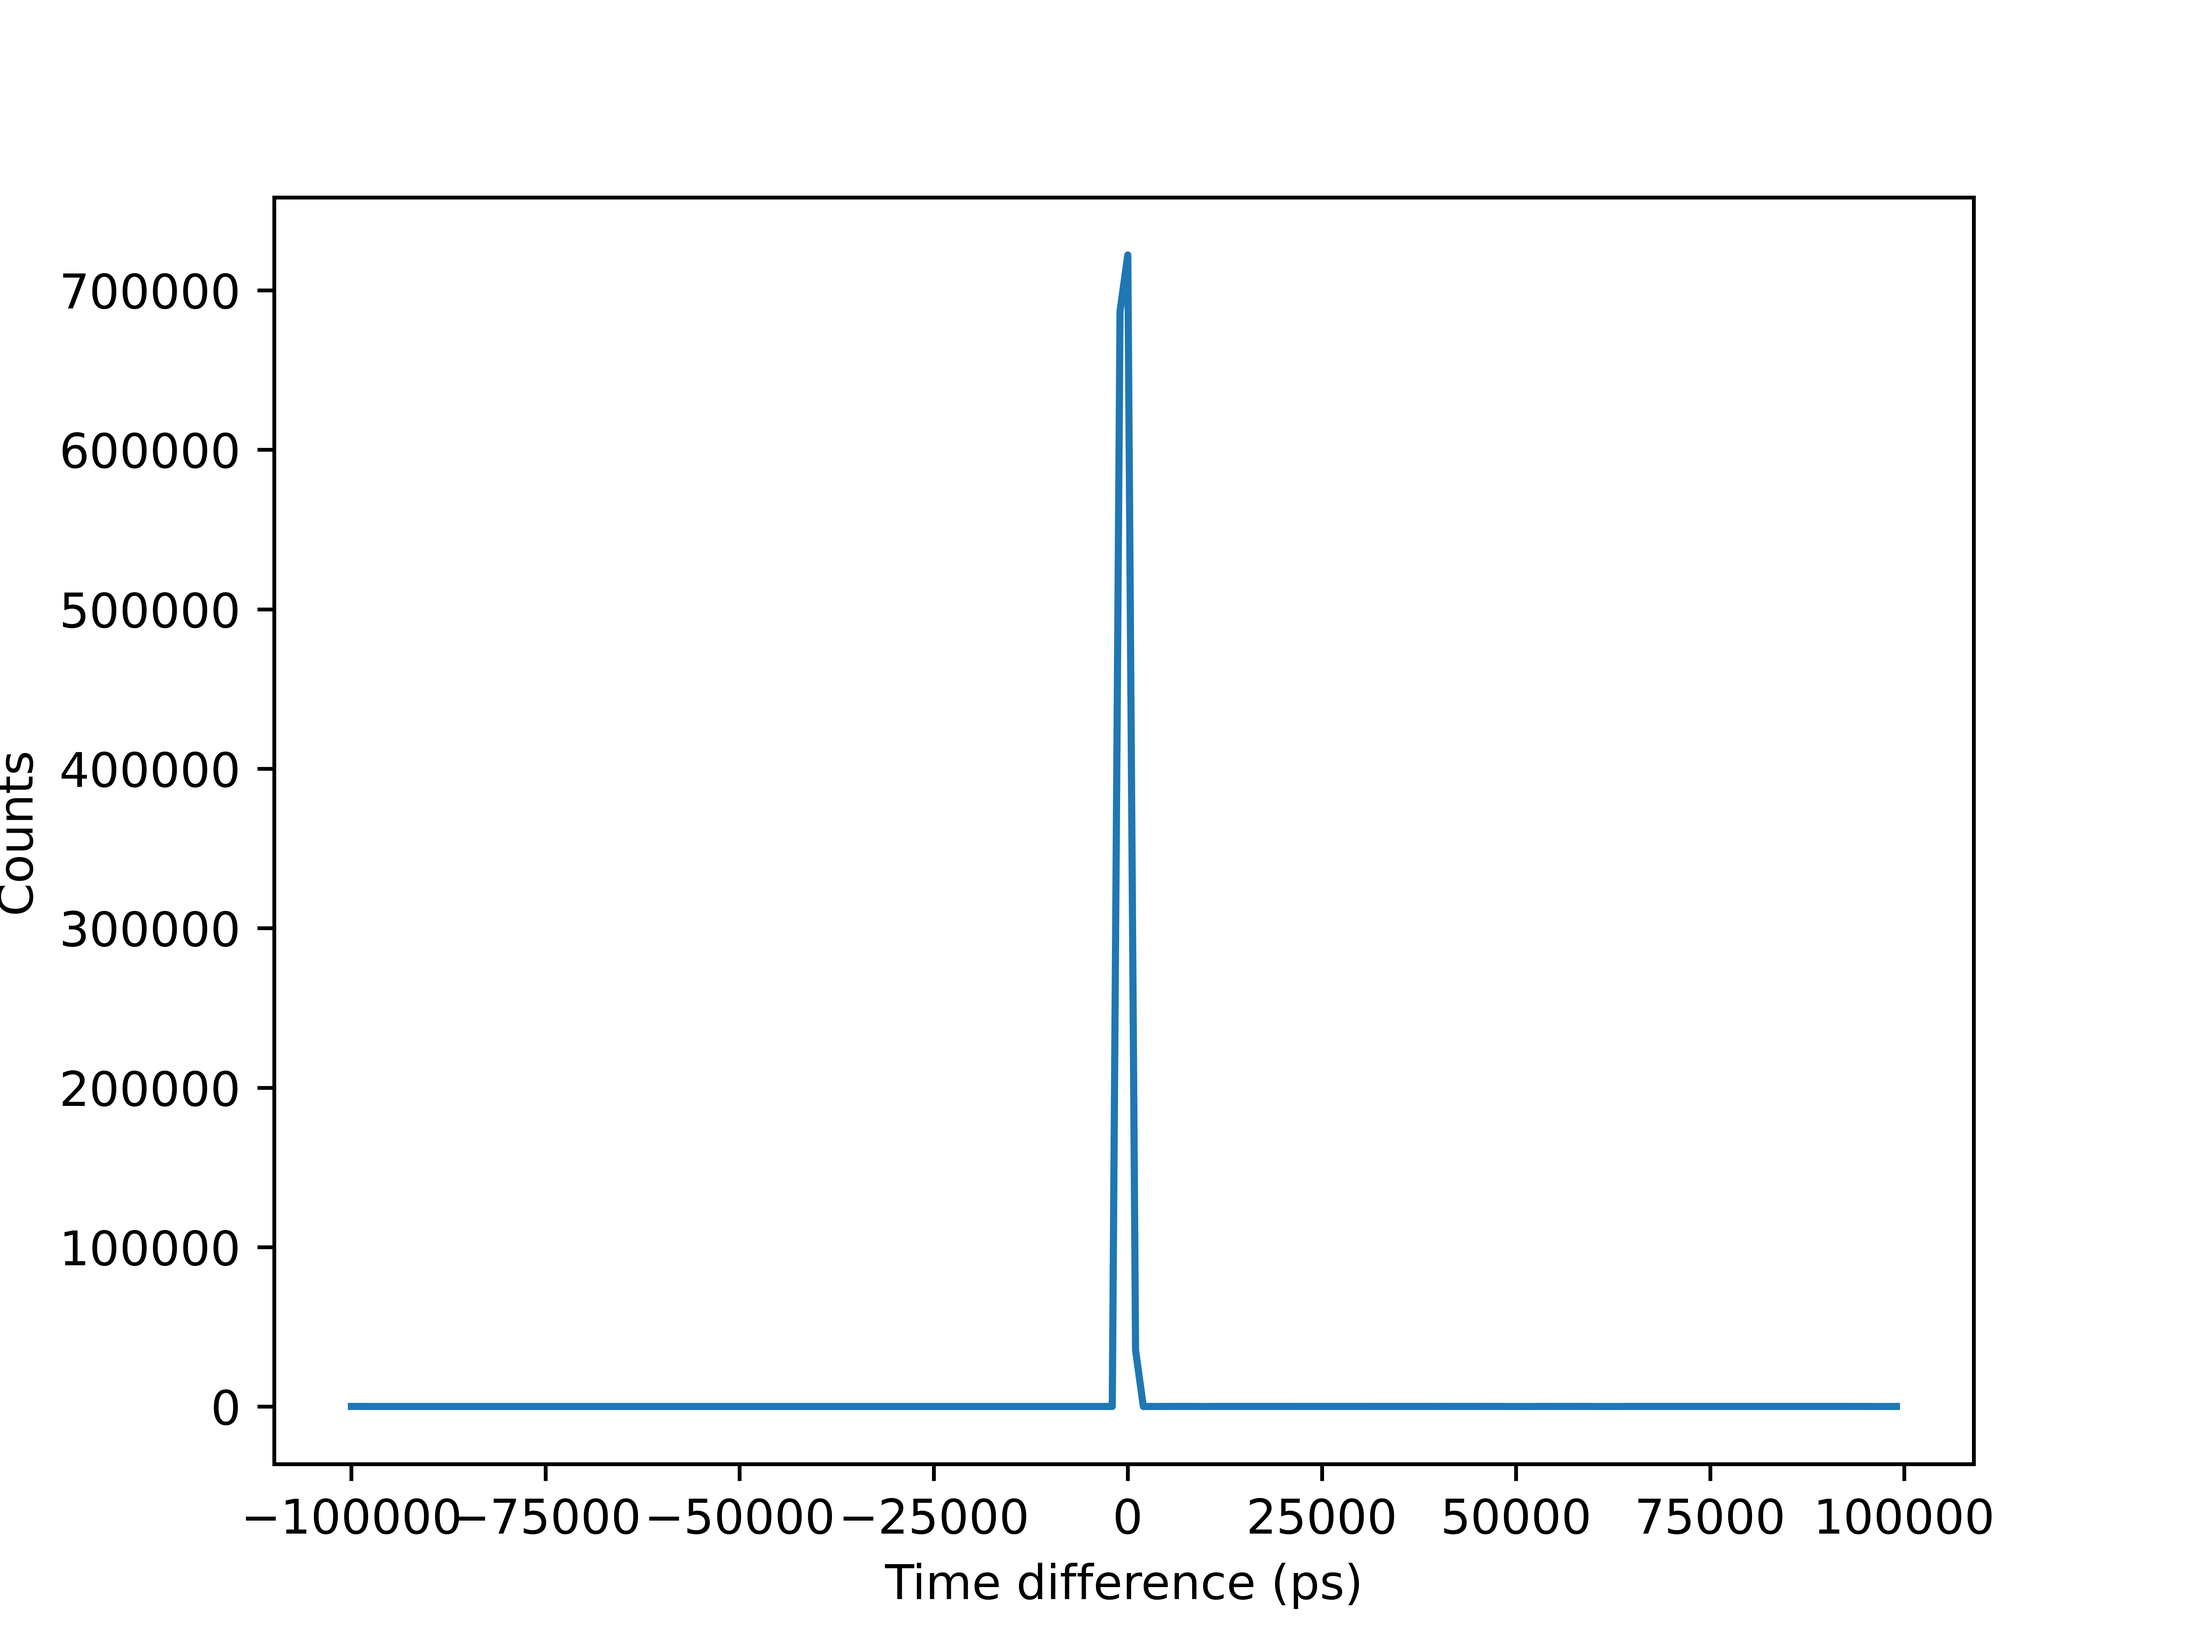
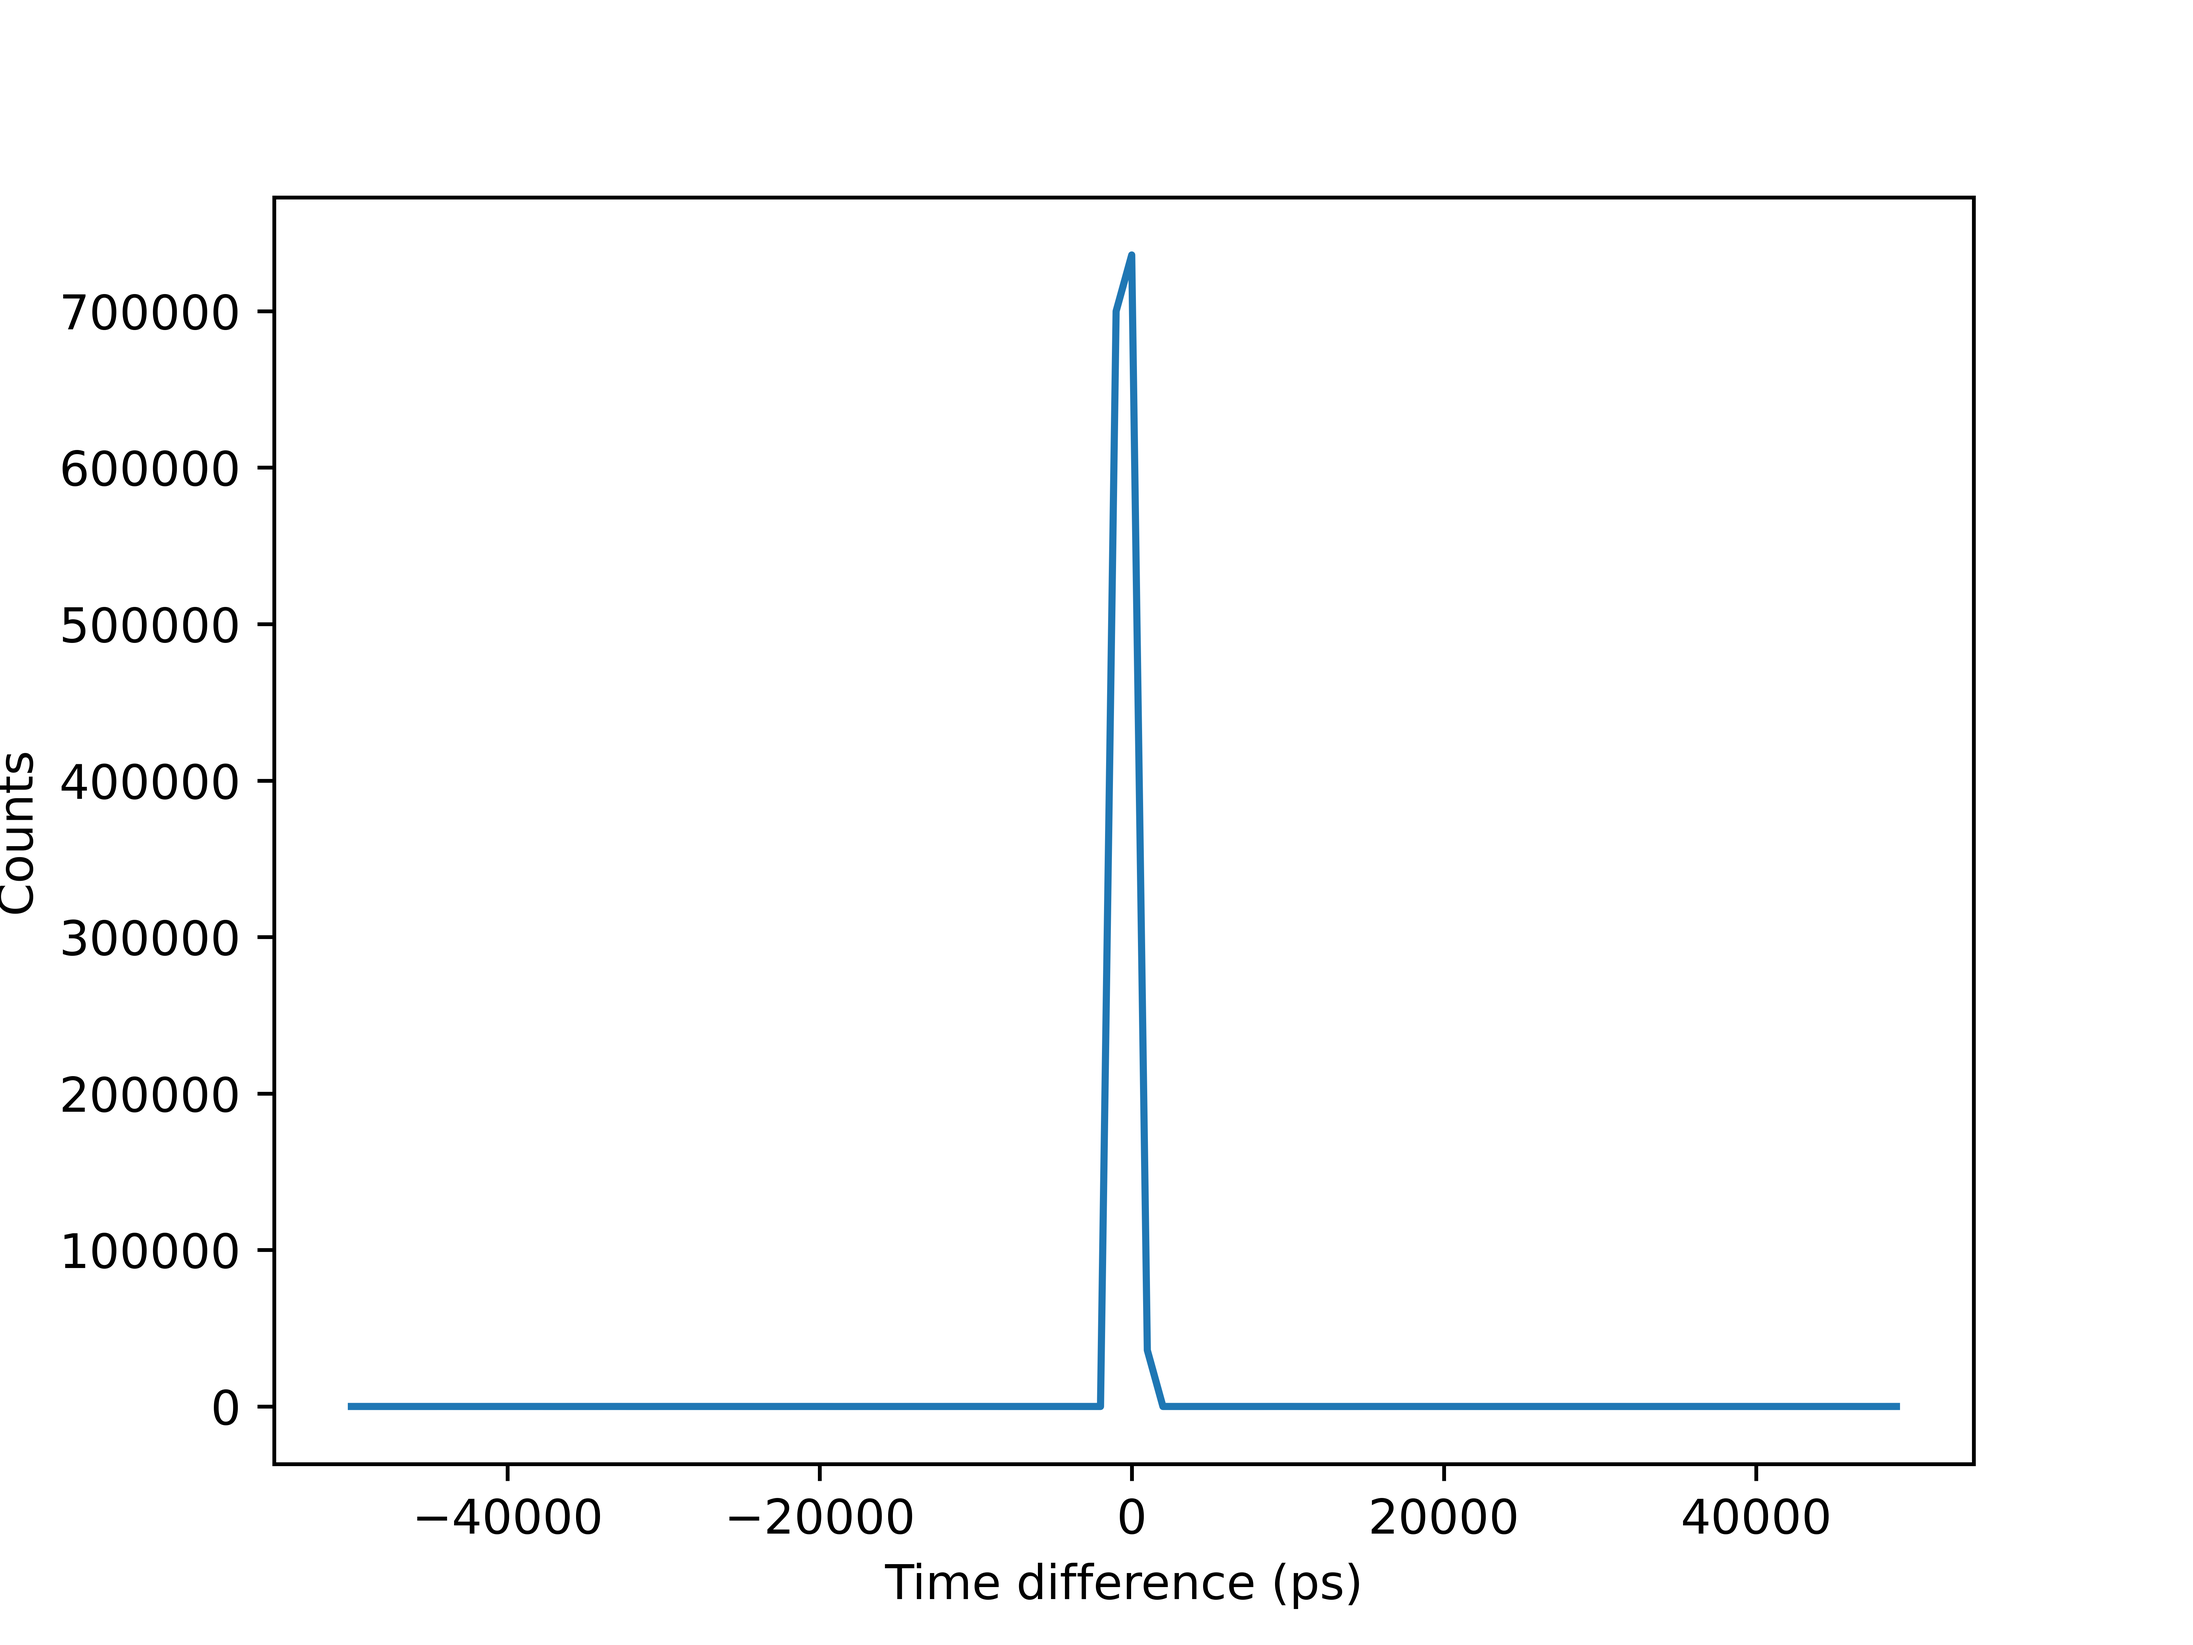
added a Simulator class

diff --git a/timetagging_&_coincidence_counting/Simulator.py b/timetagging_&_coincidence_counting/Simulator.py
@@ -1,0 +1,116 @@
+import matplotlib.pyplot as plt
+import math
+import random
+
+
+class Simulator:
+
+    def __init__(self,
+                 pr,
+                 lambd,                     # average count rate (counts/second)
+                 total_time,                # (seconds)
+                 lag,                       # difference between idler and signal (picoseconds)
+                 optical_loss_signal,       # probability of not being detected for the signal photons
+                 optical_loss_idler,        # probability of not being detected for the idler photons
+                 dark_count_rate,           # (counts/second)
+                 deadtime,                  # (picoseconds)
+                 jitter_fwhm,               # (picoseconds)
+                 coincidence_interval):     # (picoseconds)
+        self.pr = pr
+        self.lambd = lambd
+        self.total_time = total_time
+        self.lag = lag
+        self.optical_loss_signal = optical_loss_signal
+        self.optical_loss_idler = optical_loss_idler
+        self.dark_count_rate = dark_count_rate
+        self.deadtime = deadtime
+        self.jitter_fwhm = jitter_fwhm
+        self.coincidence_interval = coincidence_interval
+        self.cross_corr_plot_x = range(-50000, 50000, coincidence_interval)
+        self.cross_corr_plot_y = []
+
+    def simulate(self):
+        n = self.total_time * self.lambd                  # total number of events
+
+        # generate pseudo timestamps following an exponential distribution
+        timestamps_signal = []  # (picoseconds)
+        timestamps_idler = []  # (picoseconds)
+        t = 0
+        for i in range(math.floor(n)):
+            dt = math.floor(random.expovariate(self.lambd) * 1e12)
+            t += dt
+            if random.random() < self.pr:
+                # optical loss
+                if random.random() > self.optical_loss_signal:
+                    timestamps_signal.append(t)
+                if random.random() > self.optical_loss_idler:
+                    timestamps_idler.append(t + self.lag)
+
+        # jitter
+        sigma = self.jitter_fwhm / (2 * math.sqrt(2 * math.log(2)))
+        for i in range(len(timestamps_signal)):
+            timestamps_signal[i] += math.floor(random.gauss(0, sigma))
+            while timestamps_signal[i] < 0:
+                timestamps_signal[i] += math.floor(random.gauss(0, sigma))
+        for i in range(len(timestamps_idler)):
+            timestamps_idler[i] += math.floor(random.gauss(0, sigma))
+            while timestamps_idler[i] < 0:
+                timestamps_idler[i] += math.floor(random.gauss(0, sigma))
+
+        # generate dark counts
+        for i in range(math.floor(n * self.dark_count_rate / self.lambd)):
+            timestamps_signal.append(math.floor(random.random() * self.total_time))
+            timestamps_idler.append(math.floor(random.random() * self.total_time))
+        timestamps_signal.sort()
+        timestamps_idler.sort()
+
+        # deadtime
+        index = 0
+        while index < len(timestamps_signal) - 1:
+            if timestamps_signal[index + 1] - timestamps_signal[index] < self.deadtime:
+                del timestamps_signal[index + 1]
+            else:
+                index += 1
+        index = 0
+        while index < len(timestamps_idler) - 1:
+            if timestamps_idler[index + 1] - timestamps_idler[index] < self.deadtime:
+                del timestamps_idler[index + 1]
+            else:
+                index += 1
+
+        # count coincidences
+        if len(timestamps_signal) > len(timestamps_idler):
+            list2 = timestamps_signal
+            list1 = timestamps_idler
+        else:
+            list1 = timestamps_signal
+            list2 = timestamps_idler
+
+        for delta_t in self.cross_corr_plot_x:
+            coincidences = []
+            # index in list2 of the left bound
+            left_bound = 0
+            for x in list1:
+                # check interval (x + delta_t - coincidence_interval, x + delta_t + coincidence_interval)
+                while list2[left_bound] < (x + delta_t) - self.coincidence_interval and left_bound < len(list2) - 1:
+                    left_bound += 1
+                # now x + delta_t - coincidence_interval <= larger[left_bound]
+                if list2[left_bound] < (x + delta_t) + self.coincidence_interval:
+                    # x + delta_t and larger[left_bound] are in the same window
+                    # the timestamp of the coincidence is the time of the later event
+                    coincidences.append(max(x + delta_t, list2[left_bound]))
+            self.cross_corr_plot_y.append(len(coincidences))
+        return max(self.cross_corr_plot_y)
+
+    def plot_cross_corr(self):
+        plt.plot(self.cross_corr_plot_x, self.cross_corr_plot_y)
+        plt.xlabel('Time difference (ps)')
+        plt.ylabel('Counts')
+        plt.savefig('cross_correlation_plot.png', dpi=1000)
+        plt.show()
+
+
+if __name__ == "__main__":
+    a = Simulator(1, 100000, 10, 100, .1, .1, 1000, 1000000, 100, 1000)
+    print(a.simulate())
+    a.plot_cross_corr()

diff --git a/timetagging_&_coincidence_counting/main.py b/timetagging_&_coincidence_counting/main.py
@@ -1,0 +1,80 @@
+from Simulator import Simulator
+import math
+import numpy as np
+from qiskit import *
+from qiskit.quantum_info import Statevector
+from alive_progress import alive_bar
+import matplotlib.pyplot as plt
+
+
+def entangled_protocol():
+    lambd = 100000  # average count rate (counts/second)
+    total_time = 1
+    n = total_time * lambd  # total number of events
+    lag = 100  # difference between idler and signal (ps)
+    optical_loss_signal = 0.1  # probability of not being detected for the signal photons
+    optical_loss_idler = 0.1  # probability of not being detected for the idler photons
+    dark_count_rate = 10000  # (counts/second)
+    deadtime = 1000000  # (picoseconds)
+    jitter_fwhm = 100  # (picoseconds)
+    coincidence_interval = 10000  # (picoseconds)
+
+    # rotations = how many rotation steps
+    rotations = 200
+
+    x_val = []
+    y_val = [[], [], [], []]
+    states = ['H', 'D', 'V', 'A']
+
+    qc = QuantumCircuit(2, 2)
+    with alive_bar(4 * rotations, force_tty=True) as bar:
+
+        for i in range(4):
+
+            for j in range(rotations):
+                # build the circuit
+                qc.clear()
+                qc = QuantumCircuit(2, 2)
+
+                # delta = phase difference
+                delta = .25
+                entangled_state = [1 / math.sqrt(2), 0, 0, np.exp(1j * delta) / math.sqrt(2)]
+                qc.initialize(entangled_state, [0, 1])
+
+                # keep  A the same, and rotate B
+                qc.ry(i * math.pi / 2, 0)
+                delta = 4 * j * math.pi / rotations
+                qc.ry(delta, 1)
+                pr_00 = abs(Statevector(qc)[0]) ** 2
+
+                a = Simulator(pr_00,
+                              lambd,
+                              total_time,
+                              lag,
+                              optical_loss_signal,
+                              optical_loss_idler,
+                              dark_count_rate,
+                              deadtime,
+                              jitter_fwhm,
+                              coincidence_interval)
+                bar(1)
+                y_val[i].append(a.simulate())
+
+                if i == 0:
+                    x_val.append(delta)
+
+    fig, ax = plt.subplots()
+
+    for i in range(4):
+        ax.plot(x_val, y_val[i], label=states[i])
+
+    ax.set_xlabel("Angle")
+    ax.set_ylabel("Counts")
+    ax.set_ylim(0 - 40, n + 40)
+    ax.set_xticks([0, math.pi, 2 * math.pi, 3 * math.pi, 4 * math.pi], ['0', 'π', '2π', '3π', '4π'])
+    plt.legend()
+    plt.savefig('plot.png', dpi=1000)
+    plt.show()
+
+
+entangled_protocol()

diff --git a/timetagging_&_coincidence_counting/time_tagger_run.py b/timetagging_&_coincidence_counting/time_tagger_run.py
@@ -1,9 +1,9 @@
 import math
 import random
 
-lambd = 100000                  # average count rate (100k counts/second)
+lambd = 100000                  # average count rate (counts/second)
 n = 1000000                     # total number of events (1 mil)
-t_difference = 100              # difference between idler and signal
+lag = 100                       # difference between idler and signal (ps)
 optical_loss_signal = 0.1       # probability of not being detected for the signal photons
 optical_loss_idler = 0.1        # probability of not being detected for the idler photons
 dark_count_rate = 10000         # (counts/second)
@@ -23,7 +23,7 @@ for i in range(n):
     if random.random() > optical_loss_signal:
         timestamps_signal.append(t)
     if random.random() > optical_loss_idler:
-        timestamps_idler.append(t + t_difference)
+        timestamps_idler.append(t + lag)
 
 # jitter
 sigma = jitter_fwhm/(2*math.sqrt(2*math.log(2)))

diff --git a/timetagging_&_coincidence_counting/coincidence_counting_run.py b/timetagging_&_coincidence_counting/coincidence_counting_run.py
@@ -43,6 +43,9 @@ with alive_bar(len(x_val), force_tty=True) as bar:
         # print(len(coincidences))
         bar(1)
         y_val.append(len(coincidences))
+
+print(max(y_val))
+
 plt.plot(x_val, y_val)
 plt.xlabel('Time difference (ps)')
 plt.ylabel('Counts')
